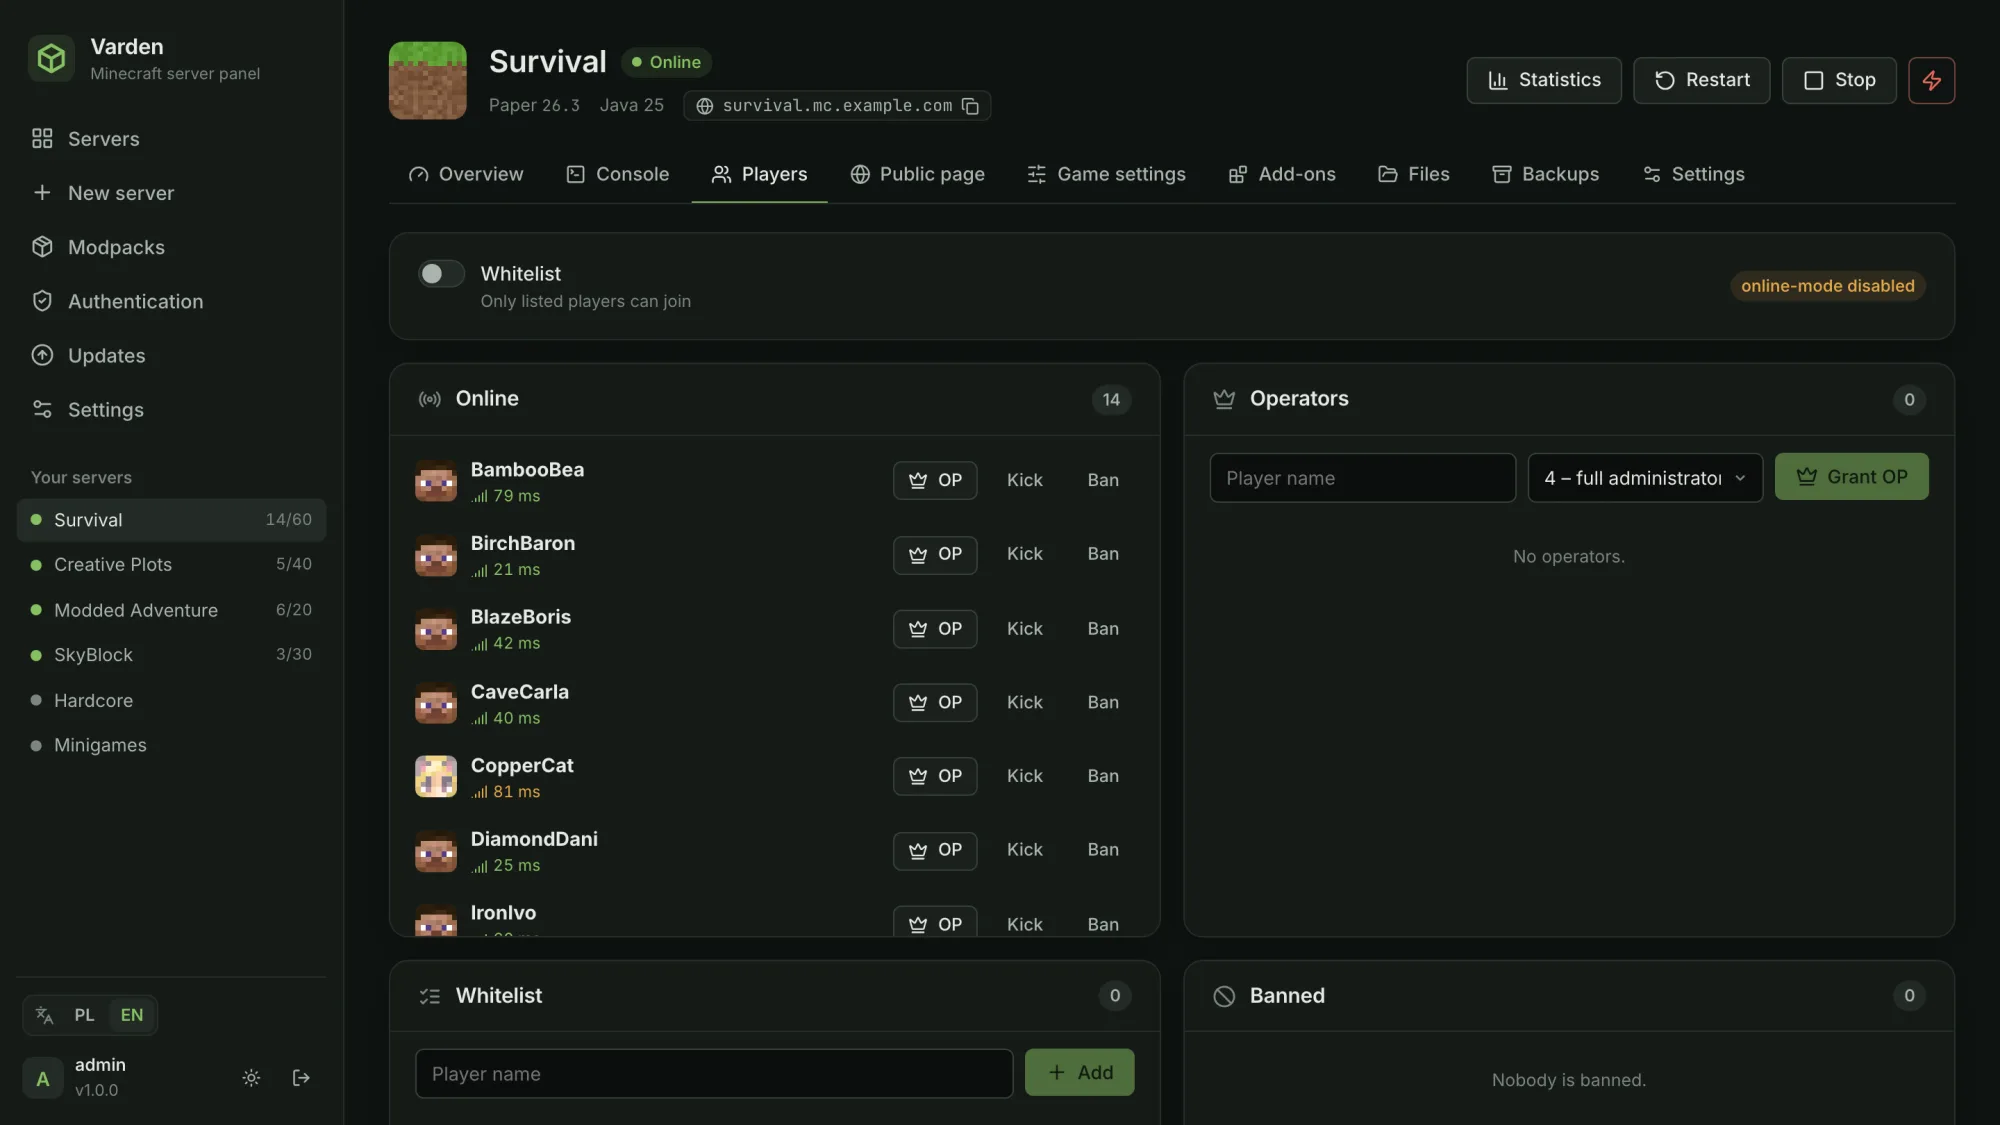
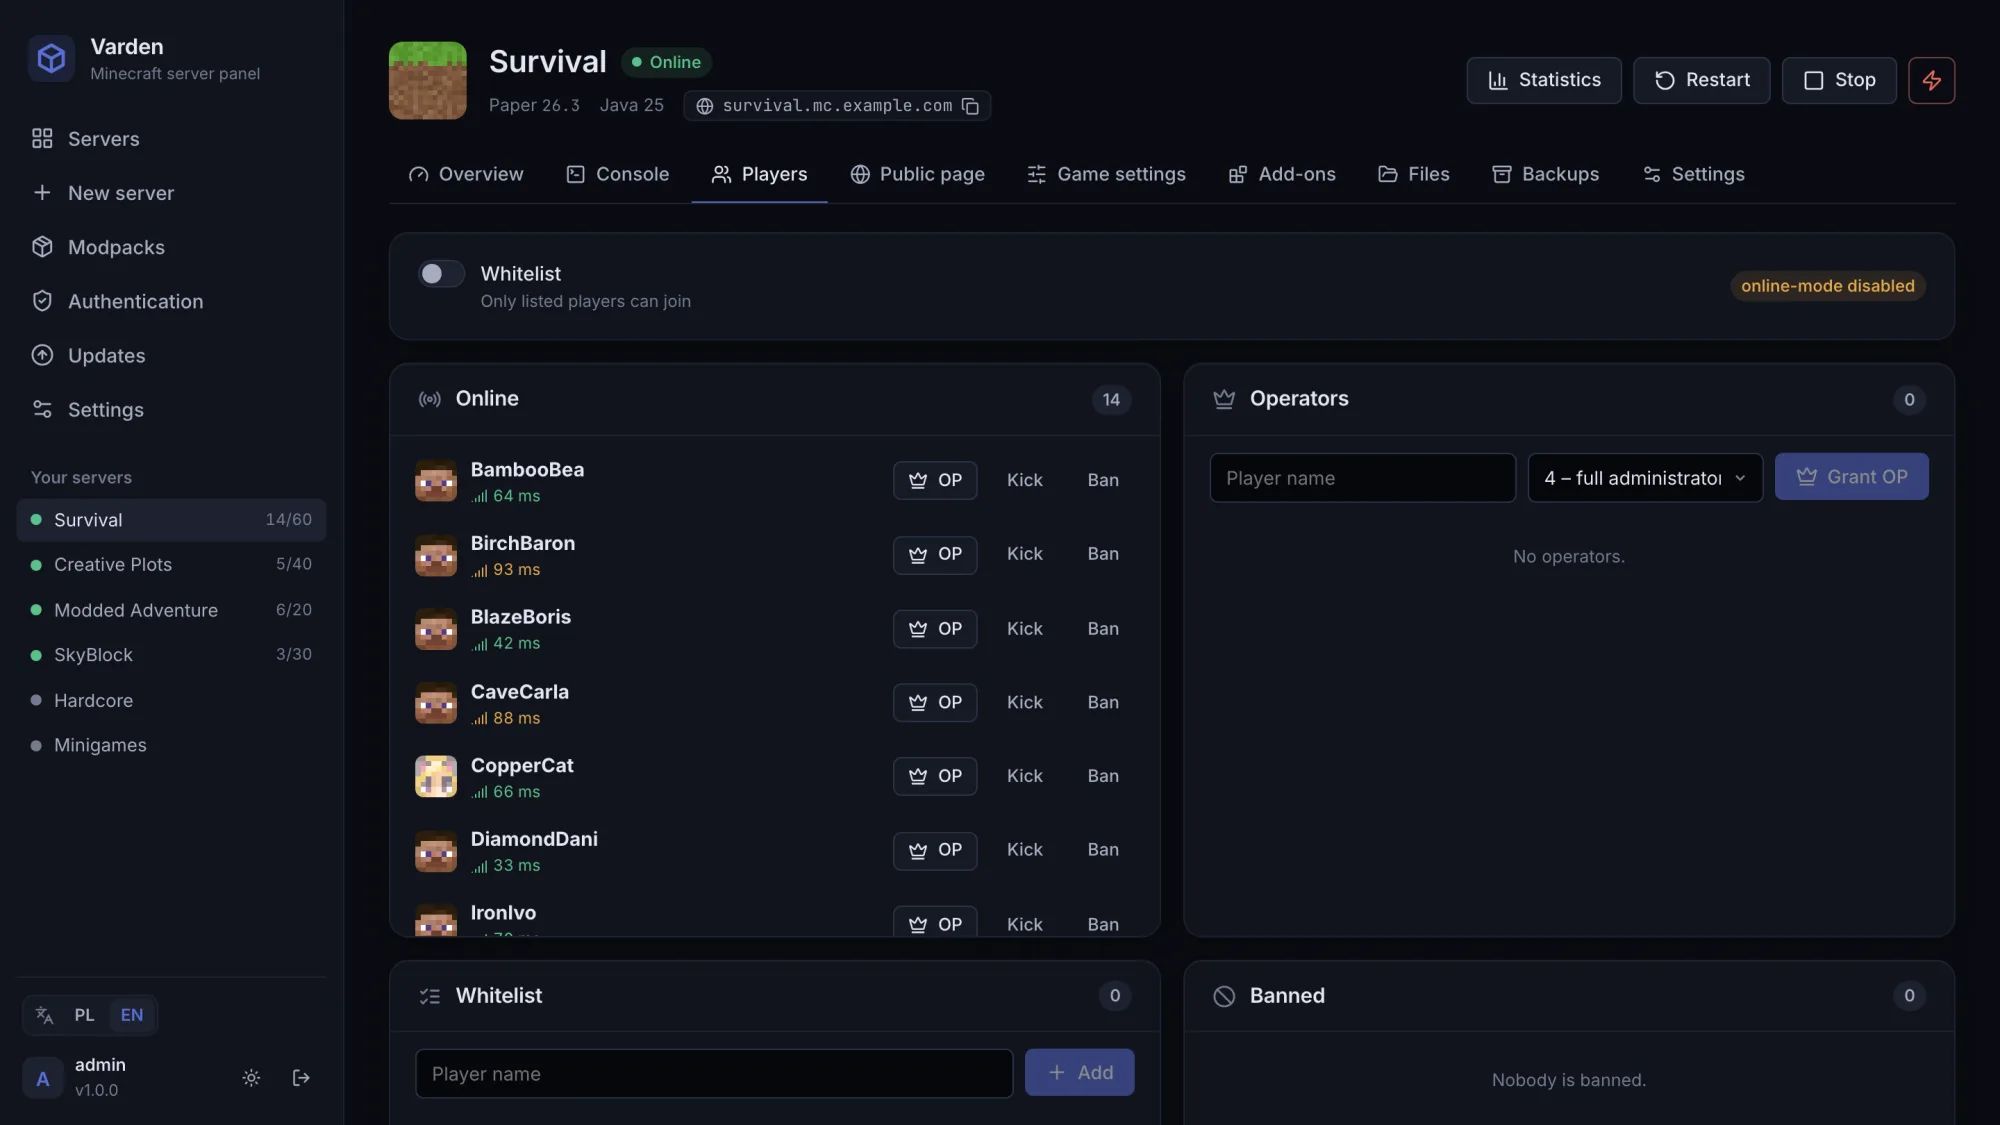
New ui main color changed to deep blue

diff --git a/frontend/src/styles/main.css b/frontend/src/styles/main.css
@@ -3,59 +3,66 @@
   --font: 'Inter Variable', system-ui, -apple-system, 'Segoe UI', sans-serif;
   --mono: 'JetBrains Mono Variable', ui-monospace, 'SF Mono', Menlo, monospace;
 
-  --bg: #0f1311;
-  --bg-sunken: #0b0e0c;
-  --surface: #151a17;
-  --surface-2: #1b211d;
-  --surface-3: #232a25;
-  --border: #262e29;
-  --border-strong: #34403a;
-  --text: #e4e9e5;
-  --text-2: #a9b3ac;
-  --muted: #7b867f;
-  --accent: #86c062;
-  --accent-strong: #9ad073;
-  --accent-ink: #0d1a08;
-  --accent-soft: rgba(134, 192, 98, 0.12);
+  --bg: #090b11;
+  --bg-sunken: #06070c;
+  --surface: #11141d;
+  --surface-2: #161a25;
+  --surface-3: #1d2230;
+  --border: #1e2331;
+  --border-strong: #2b3245;
+  --text: #e3e6f0;
+  --text-2: #a6acbf;
+  --muted: #747b91;
+  --accent: #5b6fd6;
+  --accent-strong: #7083e4;
+  --accent-ink: #ffffff;
+  --accent-soft: rgba(91, 111, 214, 0.14);
+  --success: #5cc08a;
+  --success-soft: rgba(92, 192, 138, 0.12);
   --warn: #e3a849;
   --warn-soft: rgba(227, 168, 73, 0.12);
   --danger: #e5675a;
   --danger-soft: rgba(229, 103, 90, 0.12);
-  --info: #64a8d8;
-  --info-soft: rgba(100, 168, 216, 0.12);
-  --console-bg: #0a0d0b;
+  --info: #5aa9d6;
+  --info-soft: rgba(90, 169, 214, 0.12);
+  --console-bg: #07080d;
+  --chart-2: #3fbac4;
 
   --radius-sm: 6px;
   --radius: 10px;
   --radius-lg: 14px;
   --shadow: 0 1px 0 rgba(255, 255, 255, 0.02) inset, 0 8px 24px rgba(0, 0, 0, 0.25);
-  --ring: 0 0 0 3px rgba(134, 192, 98, 0.28);
+  --ring: 0 0 0 3px rgba(91, 111, 214, 0.35);
   --sidebar-w: 248px;
 }
 
 :root[data-theme='light'] {
-  --bg: #f3f4f1;
-  --bg-sunken: #e9ebe6;
+  --bg: #f3f4f8;
+  --bg-sunken: #e8eaf1;
   --surface: #ffffff;
-  --surface-2: #f7f8f5;
-  --surface-3: #eef0eb;
-  --border: #e1e4dd;
-  --border-strong: #cdd2c8;
-  --text: #19201b;
-  --text-2: #46504a;
-  --muted: #6c766f;
-  --accent: #3f8a2a;
-  --accent-strong: #357823;
+  --surface-2: #f7f8fb;
+  --surface-3: #eef0f6;
+  --border: #e0e3ec;
+  --border-strong: #cbd0dd;
+  --text: #171a26;
+  --text-2: #454b5e;
+  --muted: #6b7186;
+  --accent: #4a5cc7;
+  --accent-strong: #3e4fb4;
   --accent-ink: #ffffff;
-  --accent-soft: rgba(63, 138, 42, 0.1);
+  --accent-soft: rgba(74, 92, 199, 0.1);
+  --success: #2e8a57;
+  --success-soft: rgba(46, 138, 87, 0.1);
   --warn: #b7791f;
   --warn-soft: rgba(183, 121, 31, 0.1);
   --danger: #c4473a;
   --danger-soft: rgba(196, 71, 58, 0.09);
   --info: #2f78b0;
   --info-soft: rgba(47, 120, 176, 0.09);
-  --console-bg: #121614;
-  --shadow: 0 1px 2px rgba(20, 30, 20, 0.05), 0 6px 20px rgba(20, 30, 20, 0.06);
+  --console-bg: #10121a;
+  --chart-2: #1d8b94;
+  --ring: 0 0 0 3px rgba(74, 92, 199, 0.25);
+  --shadow: 0 1px 2px rgba(20, 24, 40, 0.05), 0 6px 20px rgba(20, 24, 40, 0.06);
 }
 
 *, *::before, *::after { box-sizing: border-box; }
@@ -78,7 +85,7 @@ h2 { font-size: 17px; }
 h3 { font-size: 15px; }
 p { margin: 0; }
 code, .mono { font-family: var(--mono); font-size: 0.92em; }
-::selection { background: rgba(134, 192, 98, 0.3); }
+::selection { background: rgba(91, 111, 214, 0.35); }
 :focus-visible { outline: none; box-shadow: var(--ring); }
 
 /* scrollbars */
@@ -175,7 +182,7 @@ input[type='checkbox'] { accent-color: var(--accent); width: 16px; height: 16px;
   display: inline-flex; align-items: center; gap: 6px; height: 22px; padding: 0 8px; border-radius: 999px;
   font-size: 12px; font-weight: 550; background: var(--surface-3); color: var(--text-2); white-space: nowrap;
 }
-.badge.green { background: var(--accent-soft); color: var(--accent); }
+.badge.green { background: var(--success-soft); color: var(--success); }
 .badge.amber { background: var(--warn-soft); color: var(--warn); }
 .badge.red { background: var(--danger-soft); color: var(--danger); }
 .badge.blue { background: var(--info-soft); color: var(--info); }
@@ -209,8 +216,8 @@ input[type='checkbox'] { accent-color: var(--accent); width: 16px; height: 16px;
 .callout.warn svg { color: var(--warn); }
 .callout.info { background: var(--info-soft); border-color: color-mix(in srgb, var(--info) 30%, transparent); }
 .callout.info svg { color: var(--info); }
-.callout.green { background: var(--accent-soft); border-color: color-mix(in srgb, var(--accent) 30%, transparent); }
-.callout.green svg { color: var(--accent); }
+.callout.green { background: var(--success-soft); border-color: color-mix(in srgb, var(--success) 30%, transparent); }
+.callout.green svg { color: var(--success); }
 .divider { height: 1px; background: var(--border); margin: 4px 0; }
 .kbd { font-family: var(--mono); font-size: 11px; padding: 1px 5px; border: 1px solid var(--border-strong); border-radius: 4px; color: var(--muted); }
 .page { padding: 28px 32px 48px; max-width: 1320px; margin: 0 auto; }

diff --git a/frontend/src/components/LiveConsole.vue b/frontend/src/components/LiveConsole.vue
@@ -102,24 +102,24 @@ function hist(d) {
 defineExpose({ focus: () => input.value?.focus() })
 </script>
 <style scoped>
-.console { position: relative; display: flex; flex-direction: column; background: var(--console-bg); border: 1px solid var(--border); border-radius: var(--radius-lg); overflow: hidden; height: 520px; color: #d5dbd6; }
+.console { position: relative; display: flex; flex-direction: column; background: var(--console-bg); border: 1px solid var(--border); border-radius: var(--radius-lg); overflow: hidden; height: 520px; color: #d5d9e3; }
 .console.fill { height: calc(100vh - 250px); min-height: 380px; }
 .bar { display: flex; align-items: center; gap: 10px; padding: 8px 10px; border-bottom: 1px solid rgba(255, 255, 255, 0.06); background: rgba(255, 255, 255, 0.02); }
 .bar .btn { background: transparent; border-color: rgba(255, 255, 255, 0.1); color: #a9b3ac; }
-.bar .btn.active { color: var(--accent); background: rgba(134, 192, 98, 0.1); }
+.bar .btn.active { color: var(--accent); background: var(--accent-soft); }
 .search { display: flex; align-items: center; gap: 6px; height: 28px; padding: 0 9px; border-radius: 6px; border: 1px solid rgba(255, 255, 255, 0.1); }
 .search svg { width: 14px; height: 14px; color: #7b867f; }
-.search input { background: none; border: 0; outline: none; color: #d5dbd6; font: inherit; font-size: 12.5px; width: 140px; }
+.search input { background: none; border: 0; outline: none; color: #d5d9e3; font: inherit; font-size: 12.5px; width: 140px; }
 .out { flex: 1; overflow: auto; padding: 8px 0; font-family: var(--mono); font-size: 12.5px; line-height: 1.55; }
 .ln { display: flex; gap: 12px; padding: 0 14px; white-space: pre; }
 .out.wrap .ln { white-space: pre-wrap; word-break: break-word; }
 .ln:hover { background: rgba(255, 255, 255, 0.03); }
-.ts { color: #56605a; flex: none; user-select: none; }
+.ts { color: #565d70; flex: none; user-select: none; }
 .ln.warn .tx { color: #e3b866; }
 .ln.error .tx { color: #ef8478; }
 .ln.panel .tx { color: #8fc7ec; }
 .ln.cmd .tx { color: #a6e07f; }
-.ln.cmd .tx::before { content: '> '; color: #56605a; }
+.ln.cmd .tx::before { content: '> '; color: #565d70; }
 .jump { position: absolute; right: 18px; bottom: 60px; background: var(--surface-2); }
 .input-row { display: flex; align-items: center; gap: 8px; padding: 8px 10px; border-top: 1px solid rgba(255, 255, 255, 0.06); }
 .prompt { width: 16px; height: 16px; color: var(--accent); flex: none; }

diff --git a/frontend/src/views/server/Overview.vue b/frontend/src/views/server/Overview.vue
@@ -35,7 +35,7 @@
       </div>
       <div class="card">
         <div class="card-head"><h3>{{ $t('Zużycie pamięci') }}</h3><span class="tiny muted">{{ $t('limit sterty {v}', { v: formatMB(s.max_ram_mb) }) }}</span></div>
-        <div class="card-body"><AreaChart :points="memPts" :window="windowSec" :max="s.max_ram_mb * 1048576 * 1.2" color="var(--info)" :format="(v) => formatBytes(v)" /></div>
+        <div class="card-body"><AreaChart :points="memPts" :window="windowSec" :max="s.max_ram_mb * 1048576 * 1.2" color="var(--chart-2)" :format="(v) => formatBytes(v)" /></div>
       </div>
     </div>
 
@@ -109,14 +109,14 @@ onUnmounted(() => clearInterval(t))
 .tl svg { width: 15px; height: 15px; color: var(--muted); }
 .tv { font-size: 24px; font-weight: 650; letter-spacing: -0.02em; }
 .tv small { font-size: 13px; color: var(--muted); font-weight: 500; }
-.tail { background: var(--console-bg); color: #cfd6d0; font-size: 12px; padding: 12px 16px; border-radius: 0 0 var(--radius-lg) var(--radius-lg); min-height: 240px; line-height: 1.6; overflow: hidden; }
+.tail { background: var(--console-bg); color: #cfd3de; font-size: 12px; padding: 12px 16px; border-radius: 0 0 var(--radius-lg) var(--radius-lg); min-height: 240px; line-height: 1.6; overflow: hidden; }
 .tl-line { white-space: pre-wrap; word-break: break-word; }
 .tl-line.panel { color: #8fc7ec; }
 .tl-line.cmd { color: #a6e07f; }
 .player { display: inline-flex; align-items: center; gap: 7px; padding: 4px 10px 4px 4px; border-radius: 999px; background: var(--surface-2); border: 1px solid var(--border); font-size: 13px; }
 .player img { width: 22px; height: 22px; border-radius: 50%; image-rendering: pixelated; }
 .pms { font-size: 11.5px; color: var(--muted); font-variant-numeric: tabular-nums; }
-.pms.green { color: var(--accent); }
+.pms.green { color: var(--success); }
 .pms.amber { color: var(--warn); }
 .pms.red { color: var(--danger); }
 .info { display: grid; grid-template-columns: auto 1fr; gap: 9px 16px; margin: 0; padding: 16px 20px; font-size: 13px; }

diff --git a/frontend/src/views/Settings.vue b/frontend/src/views/Settings.vue
@@ -439,14 +439,14 @@ async function removeUser(u) {
 .kick-title { color: #aaa; margin-bottom: 10px; }
 .kick-msg { white-space: pre-wrap; }
 .card-head .badge .dot { background: currentColor; }
-.geyser-log { height: 240px; overflow: auto; padding: 10px 14px; border: 1px solid var(--border); border-radius: var(--radius); background: var(--console-bg); color: #cfd6d0; font-size: 12px; line-height: 1.55; }
+.geyser-log { height: 240px; overflow: auto; padding: 10px 14px; border: 1px solid var(--border); border-radius: var(--radius); background: var(--console-bg); color: #cfd3de; font-size: 12px; line-height: 1.55; }
 .geyser-log .gl { display: flex; gap: 10px; white-space: pre-wrap; word-break: break-word; }
-.geyser-log .ts { flex: none; color: #56605a; user-select: none; }
+.geyser-log .ts { flex: none; color: #565d70; user-select: none; }
 .geyser-log .gl.warn .tx { color: #e3b866; }
 .geyser-log .gl.error .tx { color: #ef8478; }
 .geyser-log .empty { color: var(--muted); padding: 4px 0; }
 .cmd { display: flex; align-items: center; gap: 8px; height: 32px; padding: 0 10px; border-radius: var(--radius-sm); background: var(--console-bg); border: 1px solid var(--border); min-width: 180px; }
-.cmd input { flex: 1; min-width: 0; background: none; border: 0; outline: none; color: #cfd6d0; font-size: 12.5px; }
+.cmd input { flex: 1; min-width: 0; background: none; border: 0; outline: none; color: #cfd3de; font-size: 12.5px; }
 .channel { padding-top: 12px; border-top: 1px solid var(--border); }
 .channel .pr { width: 90px; height: 30px; }
 .seg { display: inline-flex; padding: 3px; border-radius: 9px; background: var(--surface-2); border: 1px solid var(--border); }

diff --git a/frontend/src/views/Dashboard.vue b/frontend/src/views/Dashboard.vue
@@ -14,7 +14,7 @@
           <div class="stat-label"><component :is="m.icon" /> {{ $t(m.label) }}</div>
           <div class="stat-value num">{{ m.value }}<small v-if="m.unit">{{ $t(m.unit) }}</small></div>
           <Meter v-if="m.meter != null" :value="m.meter" />
-          <div v-else class="row tiny" :style="{ color: m.ok ? 'var(--muted)' : 'var(--danger)' }"><span class="dot" :style="{ background: m.ok ? 'var(--accent)' : 'var(--danger)' }" />{{ $tm(m.status) }}</div>
+          <div v-else class="row tiny" :style="{ color: m.ok ? 'var(--muted)' : 'var(--danger)' }"><span class="dot" :style="{ background: m.ok ? 'var(--success)' : 'var(--danger)' }" />{{ $tm(m.status) }}</div>
           <div class="tiny muted">{{ $tm(m.hint) }}</div>
         </div>
       </div>
@@ -185,7 +185,7 @@ async function importPack(event) {
 .servers-section > * { max-width: 1320px; width: 100%; margin-left: auto; margin-right: auto; }
 .rows { display: flex; flex-direction: column; padding: 6px; }
 .srow { display: flex; align-items: center; gap: 14px; padding: 9px 12px; border-radius: var(--radius-sm); cursor: pointer; border-left: 3px solid transparent; }
-.srow.tone-on { border-left-color: var(--accent); }
+.srow.tone-on { border-left-color: var(--success); }
 .srow.tone-off { border-left-color: color-mix(in srgb, var(--danger) 45%, var(--border)); }
 .srow.tone-busy { border-left-color: var(--warn); }
 .srow:hover { background: var(--surface-2); }

diff --git a/frontend/src/views/server/JavaTab.vue b/frontend/src/views/server/JavaTab.vue
@@ -166,7 +166,7 @@ async function copyCmd() { if (await copyText(info.value.command.join(' '))) toa
 .jopt.active, .preset.active { border-color: var(--accent); background: var(--accent-soft); }
 .jopt.warn.active { border-color: var(--danger); background: var(--danger-soft); }
 .jopt > div { flex: 1; }
-.cmd { margin: 0; padding: 14px 18px; background: var(--console-bg); color: #cfd6d0; font-family: var(--mono); font-size: 12px; line-height: 1.7; white-space: pre-wrap; word-break: break-all; max-height: 340px; overflow: auto; }
-.c-bin { color: #8fc7ec; } .c-mem { color: #a6e07f; font-weight: 600; } .c-xx { color: #c9cfca; } .c-d { color: #e3b866; } .c-jar { color: #e09bf0; }
+.cmd { margin: 0; padding: 14px 18px; background: var(--console-bg); color: #cfd3de; font-family: var(--mono); font-size: 12px; line-height: 1.7; white-space: pre-wrap; word-break: break-all; max-height: 340px; overflow: auto; }
+.c-bin { color: #8fc7ec; } .c-mem { color: #a6e07f; font-weight: 600; } .c-xx { color: #c9cdd8; } .c-d { color: #e3b866; } .c-jar { color: #e09bf0; }
 .savebar { position: sticky; bottom: 16px; display: flex; align-items: center; gap: 10px; padding: 10px 14px; border-color: var(--accent); z-index: 5; }
 </style>

diff --git a/frontend/src/views/server/FilesTab.vue b/frontend/src/views/server/FilesTab.vue
@@ -231,6 +231,6 @@ onUnmounted(() => clearTimeout(dragWatchdog))
 .acts { opacity: 0.35; transition: opacity 0.1s; }
 tr:hover .acts { opacity: 1; }
 .dropmask { position: absolute; inset: 0; background: color-mix(in srgb, var(--accent) 12%, var(--surface)); display: flex; align-items: center; justify-content: center; gap: 10px; color: var(--accent); font-weight: 600; pointer-events: none; }
-.editor { width: 100%; height: min(68vh, 720px); resize: none; background: var(--console-bg); color: #dfe5e0; border: 1px solid var(--border); border-radius: var(--radius); padding: 14px 16px; font-family: var(--mono); font-size: 12.5px; line-height: 1.6; tab-size: 2; outline: none; }
+.editor { width: 100%; height: min(68vh, 720px); resize: none; background: var(--console-bg); color: #dfe2ea; border: 1px solid var(--border); border-radius: var(--radius); padding: 14px 16px; font-family: var(--mono); font-size: 12.5px; line-height: 1.6; tab-size: 2; outline: none; }
 .editor:focus { border-color: var(--accent); }
 </style>

diff --git a/frontend/src/components/ServerCard.vue b/frontend/src/components/ServerCard.vue
@@ -52,10 +52,10 @@ defineEmits(['power', 'copy'])
 </script>
 <style scoped>
 .server { padding: 18px; display: flex; flex-direction: column; gap: 14px; cursor: pointer; transition: border-color 0.2s, box-shadow 0.2s; }
-.server.tone-on { border-color: var(--accent); }
+.server.tone-on { border-color: color-mix(in srgb, var(--success) 55%, var(--border)); }
 .server.tone-off { border-color: color-mix(in srgb, var(--danger) 40%, var(--border)); }
 .server.tone-busy { border-color: var(--warn); }
-.server.tone-on:hover { box-shadow: var(--shadow), 0 0 0 1px var(--accent) inset; }
+.server.tone-on:hover { box-shadow: var(--shadow), 0 0 0 1px color-mix(in srgb, var(--success) 55%, var(--border)) inset; }
 .server.tone-off:hover { border-color: color-mix(in srgb, var(--danger) 65%, var(--border)); }
 .server.tone-busy:hover { box-shadow: var(--shadow), 0 0 0 1px var(--warn) inset; }
 .server:hover { border-color: var(--border-strong); }

diff --git a/frontend/src/views/PublicStats.vue b/frontend/src/views/PublicStats.vue
@@ -402,11 +402,11 @@ onUnmounted(() => {
 .plist { list-style: none; margin: 0; padding: 6px 20px; }
 .plist li { display: flex; align-items: center; gap: 12px; padding: 10px 0; border-bottom: 1px solid var(--border); min-width: 0; }
 .plist li:last-child { border-bottom: 0; }
-.dot.green { background: var(--accent); }
+.dot.green { background: var(--success); }
 .pms { display: inline-flex; align-items: center; gap: 4px; font-size: 12px; color: var(--muted); padding: 2px 8px; border-radius: 999px; background: var(--surface-2); border: 1px solid var(--border); white-space: nowrap; }
 .pms svg { width: 12px; height: 12px; }
 .pms.deaths { color: var(--text-2); }
-.pms.green { color: var(--accent); }
+.pms.green { color: var(--success); }
 .pms.amber { color: var(--warn); }
 .pms.red { color: var(--danger); }
 .empty.small { padding: 36px 20px; font-size: 13px; }

diff --git a/frontend/src/components/BackupDestinations.vue b/frontend/src/components/BackupDestinations.vue
@@ -220,5 +220,5 @@ async function remove(d) {
 @media (max-width: 640px) { .types { grid-template-columns: 1fr; } }
 .type { display: flex; gap: 10px; align-items: flex-start; text-align: left; padding: 10px; border: 1px solid var(--border); border-radius: var(--radius); background: var(--surface-2); color: var(--text); font: inherit; cursor: pointer; }
 .type.active { border-color: var(--accent); background: var(--accent-soft); }
-.snippet { margin: 8px 0 0; padding: 8px 10px; background: var(--console-bg); color: #cfd6d0; border-radius: 6px; font-family: var(--mono); font-size: 12px; }
+.snippet { margin: 8px 0 0; padding: 8px 10px; background: var(--console-bg); color: #cfd3de; border-radius: 6px; font-family: var(--mono); font-size: 12px; }
 </style>

diff --git a/frontend/src/components/ChunkyCard.vue b/frontend/src/components/ChunkyCard.vue
@@ -244,7 +244,7 @@ async function doRestart() {
 .hi { width: 16px; height: 16px; color: var(--muted); flex: none; }
 .task { padding: 14px 16px; border: 1px solid var(--border); border-radius: var(--radius); background: var(--surface-2); }
 .task.running { border-color: color-mix(in srgb, var(--accent) 40%, var(--border)); }
-.task.finished .ti { color: var(--accent); }
+.task.finished .ti { color: var(--success); }
 .ti { width: 18px; height: 18px; color: var(--muted); flex: none; }
 .task.running .ti { color: var(--accent); animation: spin 1.6s linear infinite; }
 .pct { font-size: 20px; font-weight: 650; letter-spacing: -0.02em; }

diff --git a/frontend/src/components/Toasts.vue b/frontend/src/components/Toasts.vue
@@ -19,7 +19,7 @@ import { toasts, dismissToast } from '../store'
 .toast { display: flex; gap: 10px; align-items: flex-start; padding: 11px 14px; border-radius: var(--radius); background: var(--surface-2);
   border: 1px solid var(--border-strong); box-shadow: var(--shadow); cursor: pointer; font-size: 13.5px; }
 .toast svg { width: 18px; height: 18px; flex: none; margin-top: 1px; color: var(--info); }
-.toast.success svg { color: var(--accent); }
+.toast.success svg { color: var(--success); }
 .toast.error { border-color: color-mix(in srgb, var(--danger) 45%, var(--border)); }
 .toast.error svg { color: var(--danger); }
 </style>
